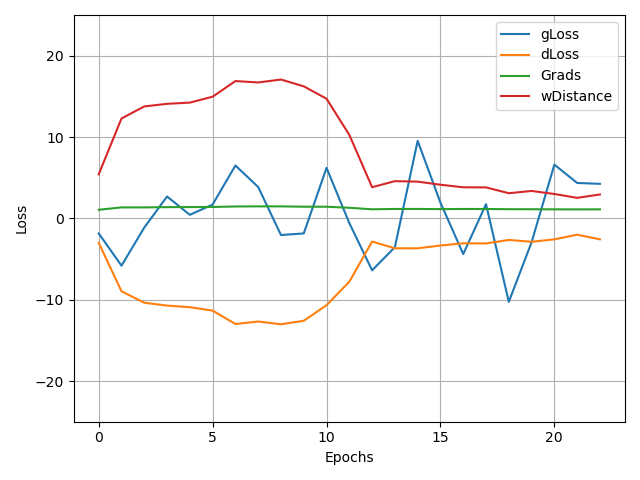
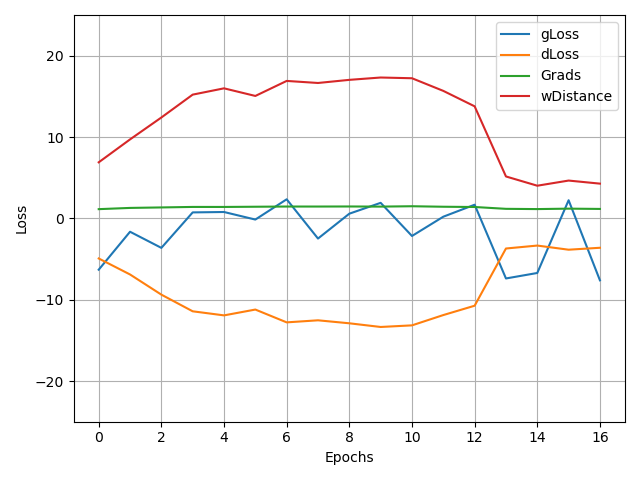
edit style model to bilinear

diff --git a/style.py b/style.py
@@ -231,7 +231,7 @@ class Generator(nn.Module):
         x = self.noise4x4_2(x)
         x = self.adain4x4_2(x,denoise)
 
-        x = nn.functional.interpolate(x,scale_factor=2)
+        x = nn.functional.interpolate(x,scale_factor=2,mode='bilinear')
         x = self.conv8x8(x)
         x = self.noise8x8_1(x)
         x = self.adain8x8_1(x,denoise)
@@ -239,7 +239,7 @@ class Generator(nn.Module):
         x = self.noise8x8_2(x)
         x = self.adain8x8_2(x,denoise)
 
-        x = nn.functional.interpolate(x,scale_factor=2)
+        x = nn.functional.interpolate(x,scale_factor=2,mode='bilinear')
         x = self.conv16x16(x)
         x = self.noise16x16_1(x)
         x = self.adain16x16_1(x,denoise)
@@ -247,7 +247,7 @@ class Generator(nn.Module):
         x = self.noise16x16_2(x)
         x = self.adain16x16_2(x,denoise)
 
-        x = nn.functional.interpolate(x,scale_factor=2)
+        x = nn.functional.interpolate(x,scale_factor=2,mode='bilinear')
         x = self.conv32x32(x)
         x = self.noise32x32_1(x)
         x = self.adain32x32_1(x,denoise)
@@ -256,7 +256,7 @@ class Generator(nn.Module):
         x = self.adain32x32_2(x,denoise)
 
         x = self.toRGB(x)
-        
+
         x = nn.functional.tanh(x)
         return x
  